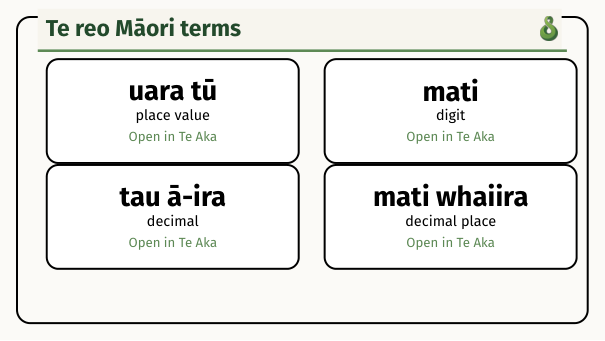
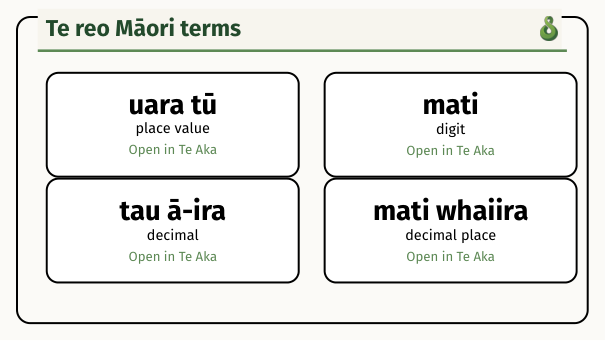
Fix vertical centering and row gap: vspace* fill around tabular, TabRowGap between rows

Changed region(s): [[0.5355, 0.1466, 0.9818, 0.8504], [0.0595, 0.176, 0.5058, 0.8504], [0.0893, 0.1466, 0.476, 0.176]]

diff --git a/OPERATIONS/scripts/build_te_reo_pdfs.py b/OPERATIONS/scripts/build_te_reo_pdfs.py
@@ -85,20 +85,21 @@ def build_tex(terms: list[dict]) -> str:
         url = escape(t.get("te_aka_word_url", ""))
         cards.append(f"\\TermCard{{{maori}}}{{{english}}}{{{url}}}")
 
-    # Arrange 2 per row using a tabular for clean, wide columns
+    # Arrange 2 per row with explicit \vspace between rows
     cols_per_row = 2
     rows = []
     for i in range(0, len(cards), cols_per_row):
         chunk = cards[i:i+cols_per_row]
         cells = " & ".join(chunk)
-        if len(chunk) < cols_per_row:
-            cells += " & \\hfill"
         rows.append(cells)
     
-    all_cards_text = "\\begin{tabular}{c@{\\hskip 1.5em}c}\n"
-    all_cards_text += " \\\\[2.5em]\n".join(rows)
-    all_cards_text += " \\\\"
-    all_cards_text += "\n\\end{tabular}"
+    all_cards_text = "\\vspace*{\\fill}\n"
+    all_cards_text += "\\begin{tabular}{c@{\\hskip 1.5em}c}\n"
+    all_cards_text += f"  {rows[0]} \\\\\n"
+    all_cards_text += "  \\TabRowGap\n"
+    all_cards_text += f"  {rows[1]}\n" if len(rows) > 1 else ""
+    all_cards_text += "\\end{tabular}\n"
+    all_cards_text += "\\vspace*{\\fill}"
     latex = template.replace("TERM_CARDS", all_cards_text.strip())
     return latex
 

diff --git a/OPERATIONS/templates/te-reo-template.tex b/OPERATIONS/templates/te-reo-template.tex
@@ -58,6 +58,8 @@
   \end{minipage}%
 }
 
+\newcommand{\TabRowGap}{\vspace{0.6cm}}
+
 \begin{document}
 \begin{frame}[t]
 \TermTitle{Te reo Māori terms}
